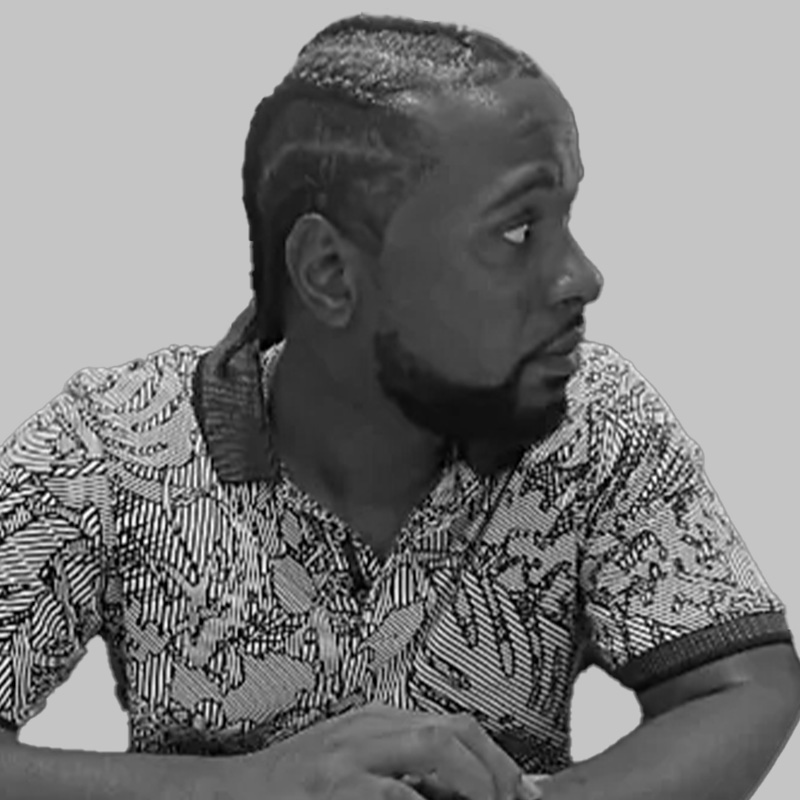
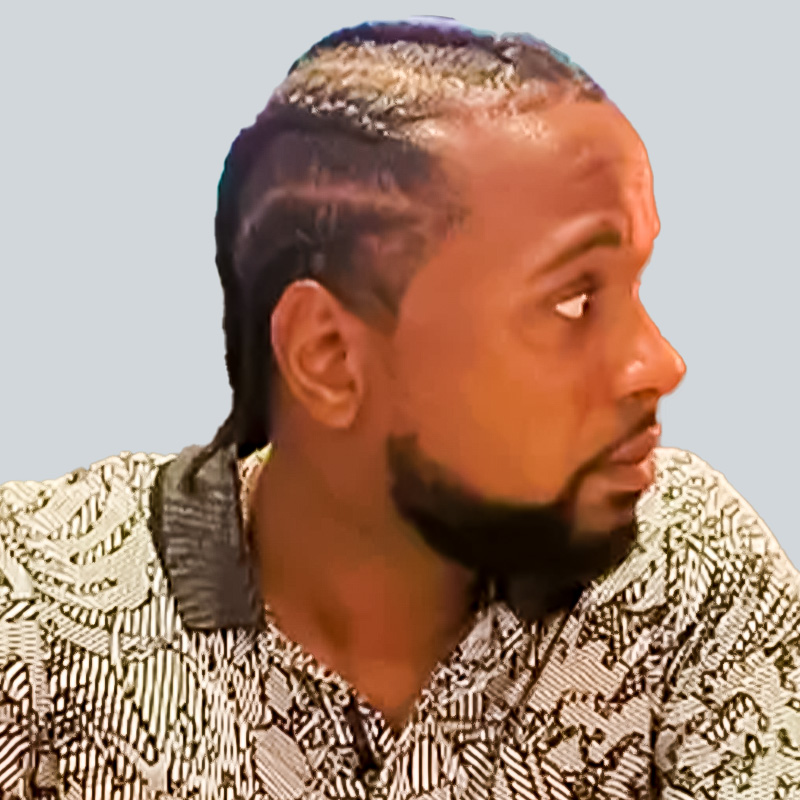
main

diff --git a/index.html b/index.html
@@ -201,42 +201,42 @@
                 <div class="col-md-12">
                     <div class="owl-carousel owl-theme">
                         <div class="item">
-                            <div class="img img-grayscale"> <img src="images/team/01.jpg" alt="" class="w-100"> </div>
+                            <div class="img "> <img src="images/team/01.jpg" alt="" class="w-100"> </div>
                             <div class="con">
                                 <h5 class="mb-0"><a href="https://twitter.com/RameelTv">MoonDaddy<br><span>Business Dev</span></a></h5>
                                 <div class="arrow"> <a href="https://twitter.com/RameelTv"><i class="fa-solid fa-arrow-up"></i></a> </div>
                             </div>
                         </div>
                         <div class="item">
-                            <div class="img img-grayscale"> <img src="images/team/02.jpg" alt="" class="w-100"> </div>
+                            <div class="img "> <img src="images/team/02.jpg" alt="" class="w-100"> </div>
                             <div class="con">
                                 <h5 class="mb-0"><a href="https://twitter.com/cryptojourneyrs">Rodney<br><span>Memecoin Daddy</span></a></h5>
                                 <div class="arrow"> <a href="https://twitter.com/cryptojourneyrs"><i class="fa-solid fa-arrow-up"></i></a> </div>
                             </div>
                         </div>
                         <div class="item">
-                            <div class="img img-grayscale"> <img src="images/team/03.jpg" alt=""></div>
+                            <div class="img "> <img src="images/team/03.jpg" alt=""></div>
                             <div class="con">
                                 <h5 class="mb-0"><a href="https://twitter.com/VCAdam_eth">Adam<br><span>Freelance AMA Host</span></a></h5>
                                 <div class="arrow"> <a href="https://twitter.com/VCAdam_eth"><i class="fa-solid fa-arrow-up"></i></a> </div>
                             </div>
                         </div>
                         <div class="item">
-                            <div class="img img-grayscale"> <img src="images/team/04.jpg" alt="" class="w-100"> </div>
+                            <div class="img "> <img src="images/team/04.jpg" alt="" class="w-100"> </div>
                             <div class="con">
                                 <h5 class="mb-0"><a href="https://twitter.com/LoKeyMoney">Lo Key<br><span>Project reviewer</span></a></h5>
                                 <div class="arrow"> <a href="https://twitter.com/LoKeyMoney"><i class="fa-solid fa-arrow-up"></i></a> </div>
                             </div>
                         </div>
                         <div class="item">
-                            <div class="img img-grayscale"> <img src="images/team/05.jpg" alt="" class="w-100"> </div>
+                            <div class="img "> <img src="images/team/05.jpg" alt="" class="w-100"> </div>
                             <div class="con">
                                 <h5 class="mb-0"><a href="https://twitter.com/Chrissou78">Chrissou<br><span>Blockchain Enthusiast and dev</span></a></h5>
                                 <div class="arrow"> <a href="https://twitter.com/Chrissou78"><i class="fa-solid fa-arrow-up"></i></a> </div>
                             </div>
                         </div>
                         <div class="item">
-                            <div class="img img-grayscale"> <img src="images/team/06.jpg" alt=""></div>
+                            <div class="img "> <img src="images/team/06.jpg" alt=""></div>
                             <div class="con">
                                 <h5 class="mb-0"><a href="ttps://twitter.com/JustinMauriceM">Justin Mißmahl<br><span>Blockchain Developer</span></a></h5>
                                 <div class="arrow"> <a href="ttps://twitter.com/JustinMauriceM"><i class="fa-solid fa-arrow-up"></i></a> </div>

diff --git a/css/style.css b/css/style.css
@@ -4958,7 +4958,7 @@ transform: translateY(-50%);
     z-index: 1;
 }
 [data-overlay-dark]:before {
-    background: #000;
+    background: ;
 }
 [data-overlay-dark] h1,
 [data-overlay-dark] h2,
